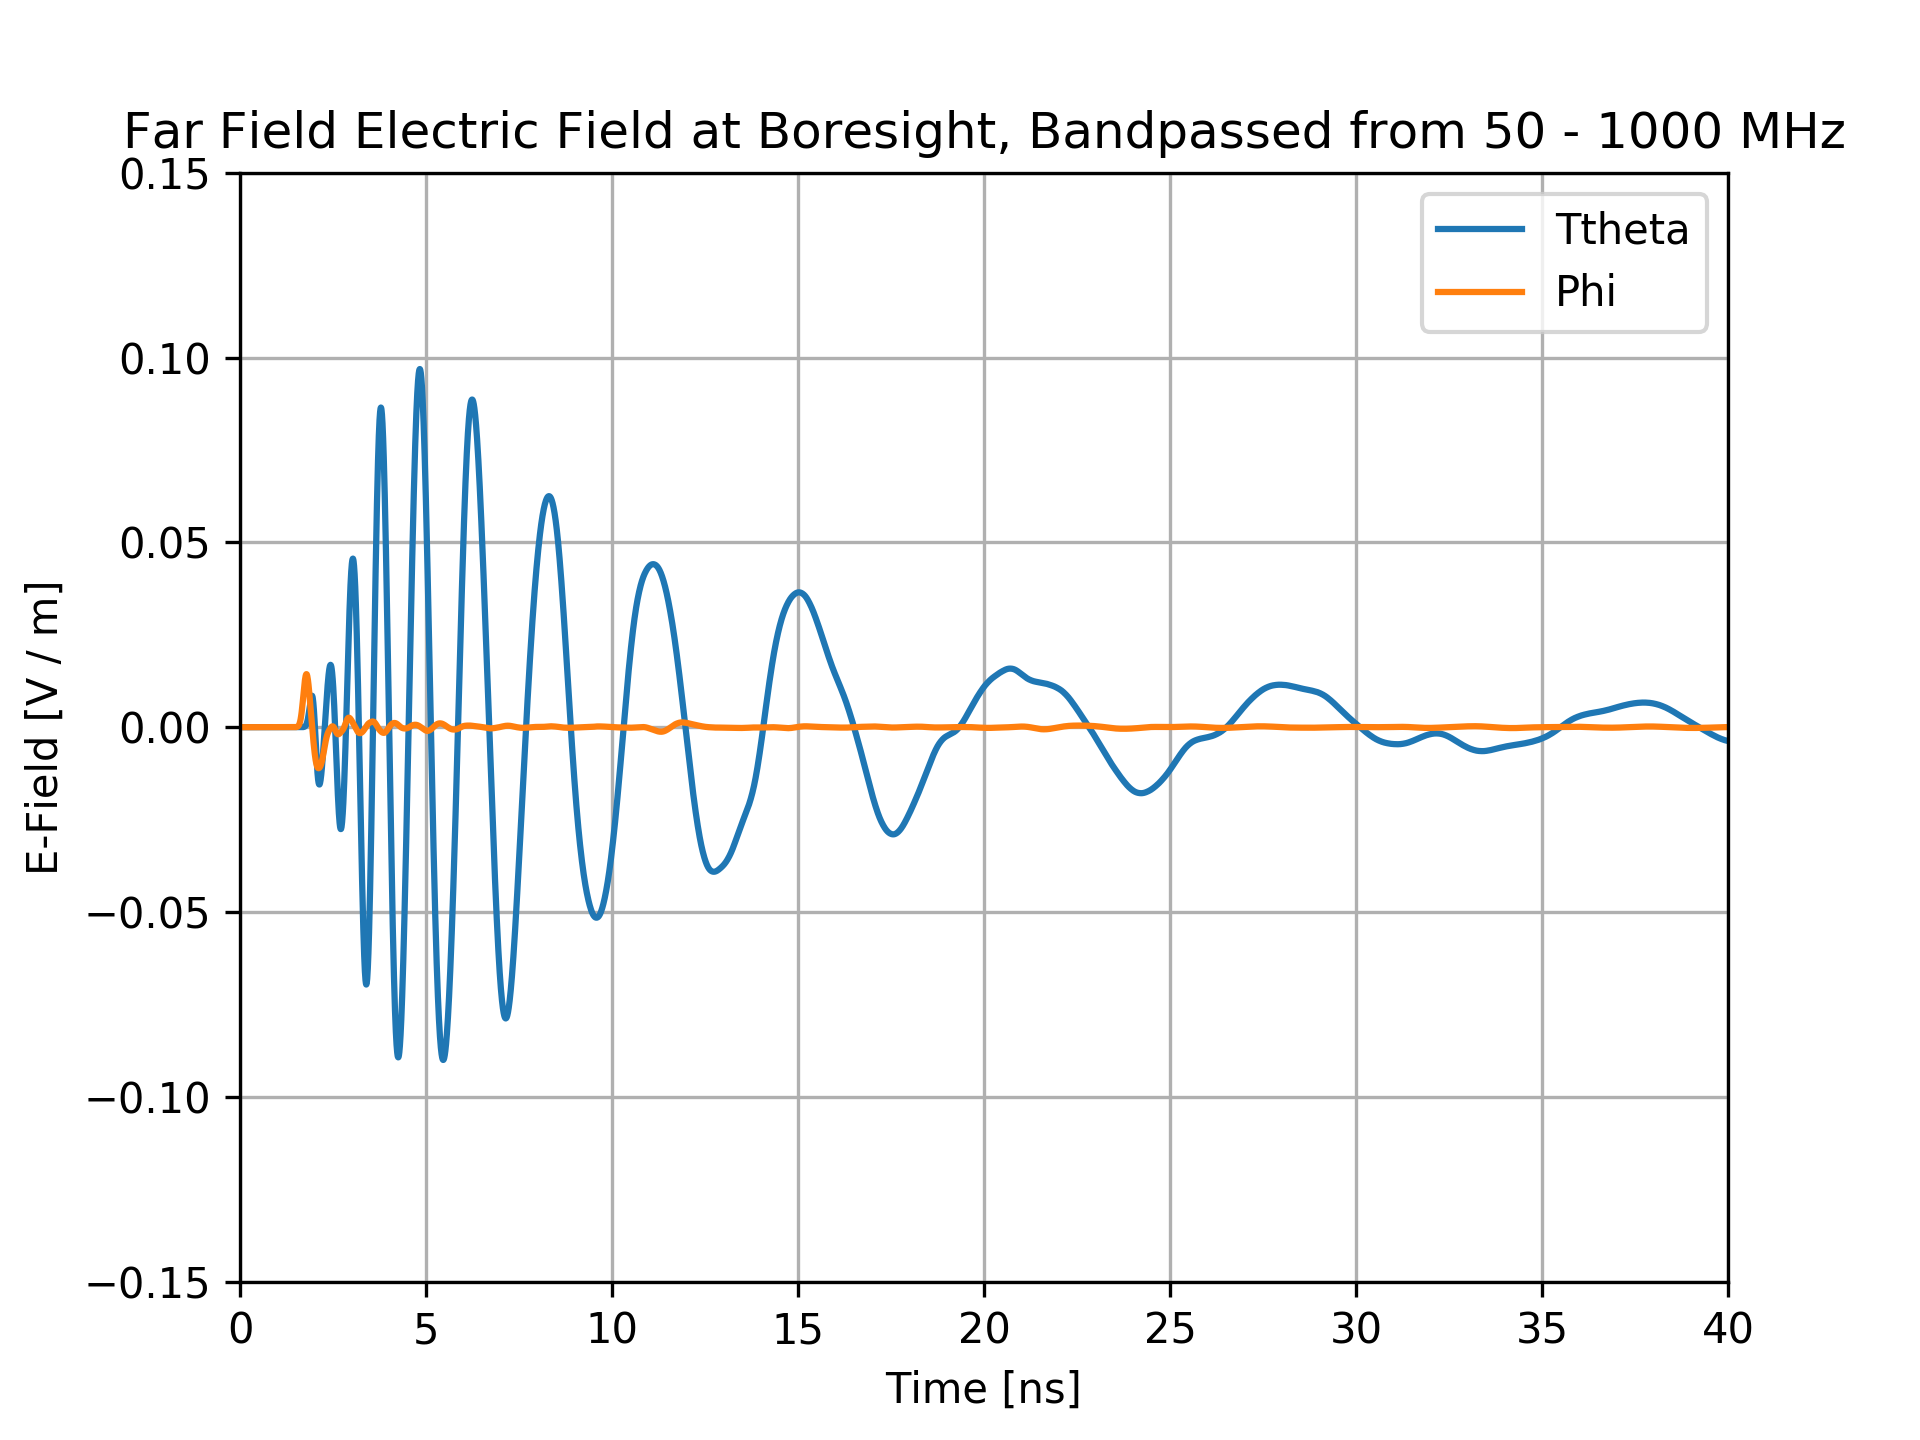
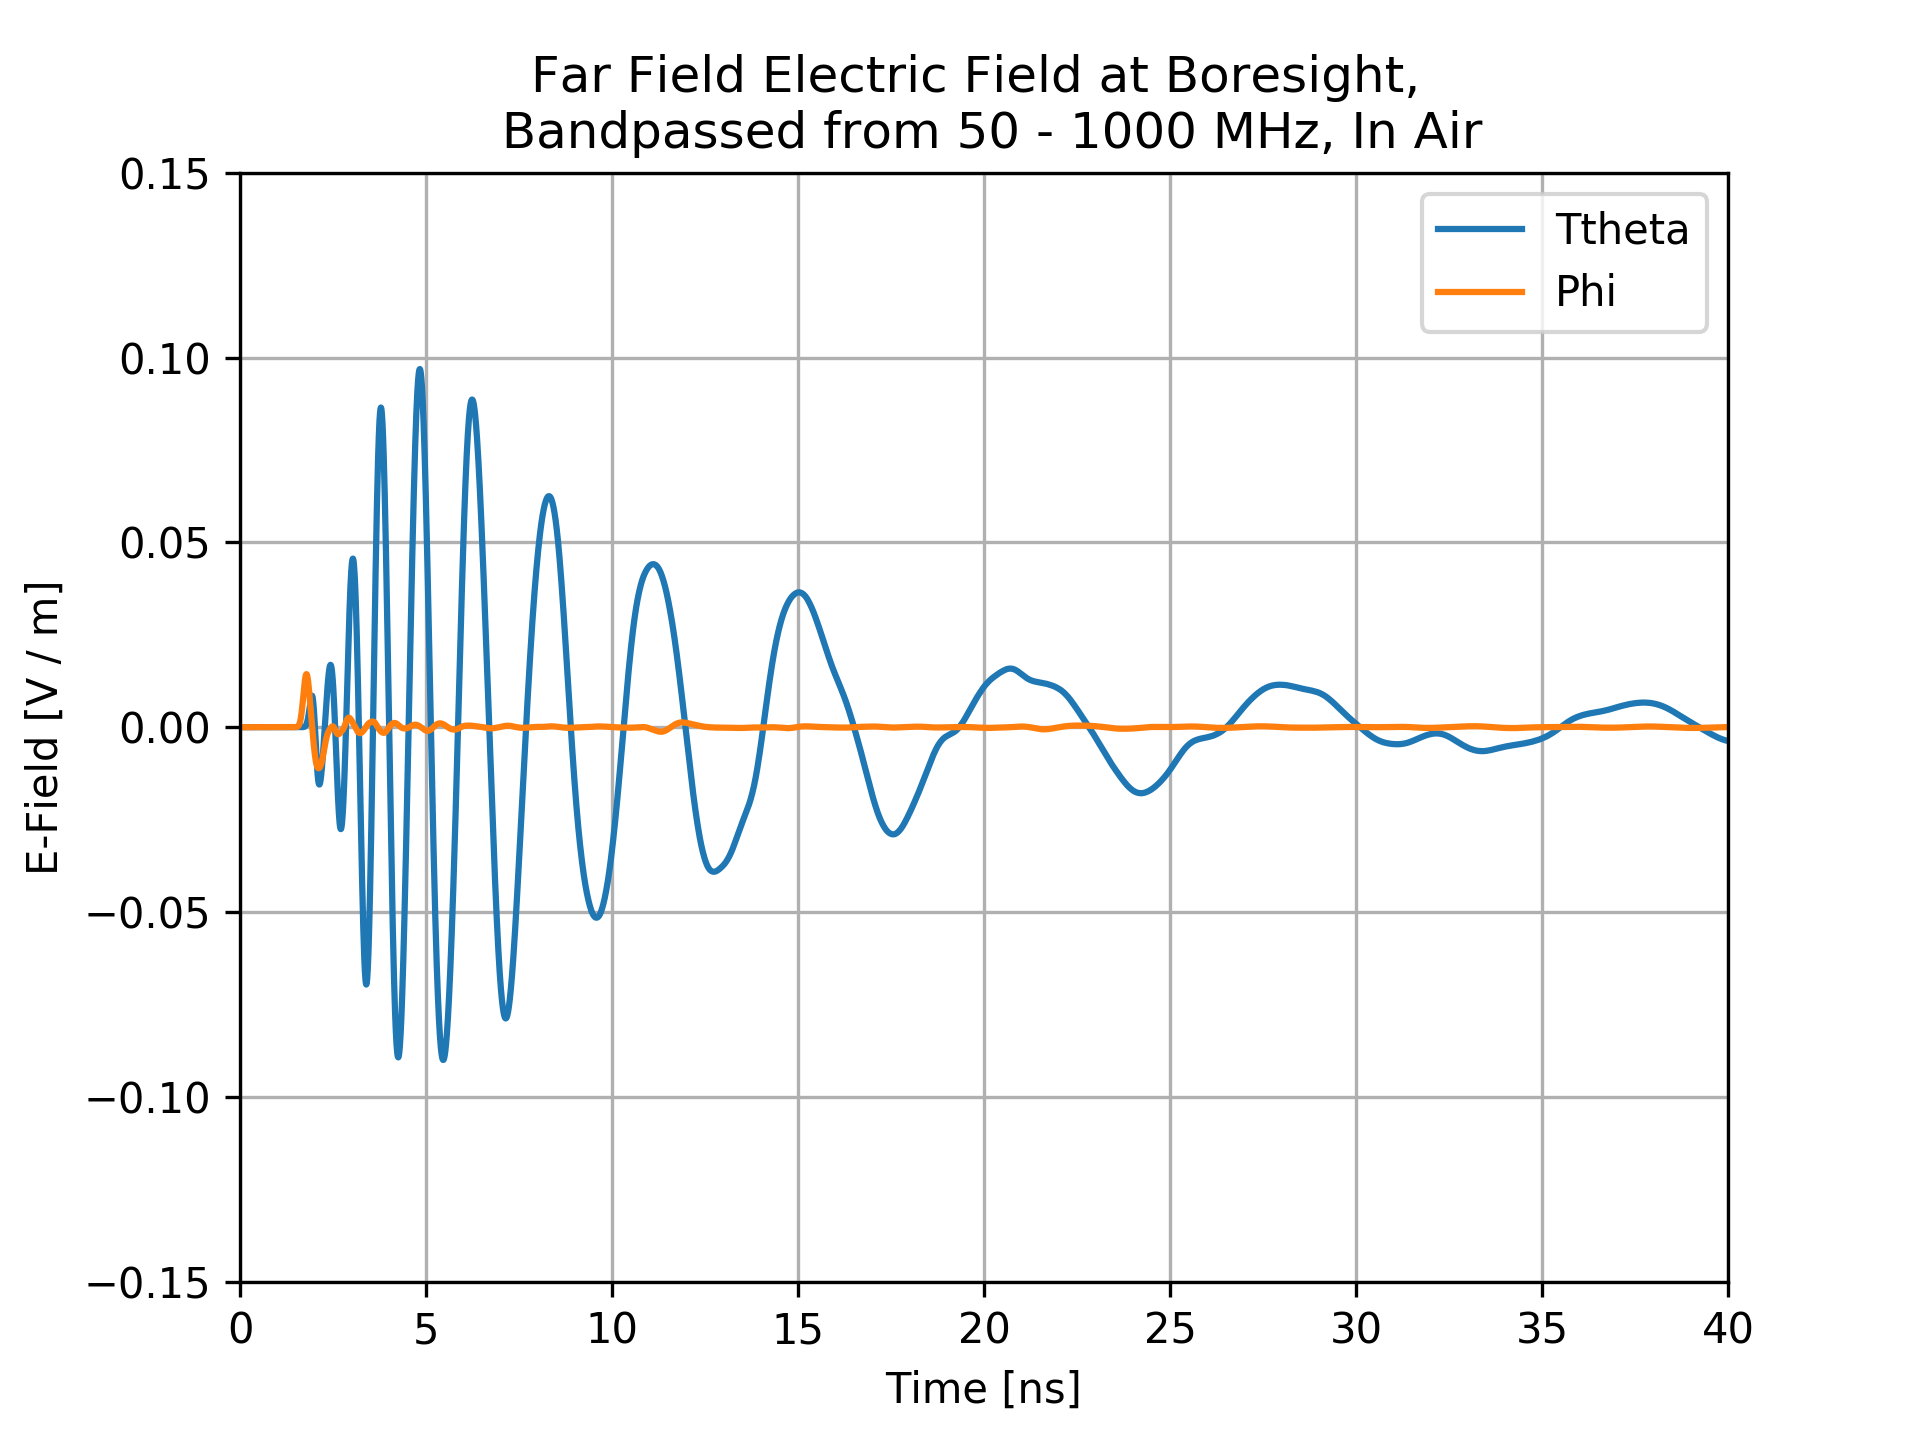
Adding effective height plot, and changed titles

Changed region(s): [[0.0625, 0.0312, 0.8125, 0.125], [0.8438, 0.0625, 0.9688, 0.125]]

diff --git a/plot_simulation_results.py b/plot_simulation_results.py
@@ -16,6 +16,15 @@ gain_theta_realized[np.isinf(gain_theta_realized)] = 1e-10
 gain_phi_realized[np.isnan(gain_phi_realized)] = 1e-10
 gain_phi_realized[np.isinf(gain_phi_realized)] = 1e-10
 
+# convert to effective height
+c0 = 0.3 
+n = 1.0
+ZL = 50.0 
+Z0 = 120.0 * np.pi
+
+abs_H_rl_theta = c0 / (gain_freqs * np.sqrt(4.0 * n * np.pi)) * np.sqrt(ZL / Z0) * np.sqrt(np.abs(gain_theta_realized))
+abs_H_rl_phi = c0 / (gain_freqs * np.sqrt(4.0 * n * np.pi)) * np.sqrt(ZL / Z0) * np.sqrt(np.abs(gain_phi_realized))
+
 def butter_bandpass(lowcut, highcut, fs, order=5):
     nyq = 0.5 * fs
     low = lowcut / nyq
@@ -35,9 +44,8 @@ etheta = butter_bandpass_filter(etheta, 0.05, 1.0, 1.0 / (efield_t[1] - efield_t
 #      Plots     #
 ##################
 
-
 plt.figure()
-plt.title("VSWR of Simulated LPDA")
+plt.title("VSWR of Simulated LPDA, In Air")
 plt.plot(vswr_freqs * 1e3, vswr)
 plt.xlabel("Freqs. [MHz]")
 plt.ylabel("VSWR")
@@ -47,7 +55,7 @@ plt.grid()
 plt.savefig("./plots/results_vswr.png", dpi = 300)
 
 plt.figure()
-plt.title("Realized Forward Gain of Simulated LPDA, Theta Direction")
+plt.title("Realized Forward Gain of Simulated LPDA, Theta Direction, In Air")
 plt.plot(gain_freqs * 1e3, 10.0 * np.log10(gain_theta_realized))
 plt.xlabel("Freqs. [MHz]")
 plt.ylabel("Realized Gain [dBi]")
@@ -57,7 +65,7 @@ plt.grid()
 plt.savefig("./plots/results_realized_gain_theta.png", dpi = 300)
 
 plt.figure()
-plt.title("Realized Forward Gain of Simulated LPDA, Phi Direction")
+plt.title("Realized Forward Gain of Simulated LPDA, Phi Direction, In Air")
 plt.plot(gain_freqs * 1e3, 10.0 * np.log10(gain_phi_realized))
 plt.xlabel("Freqs. [MHz]")
 plt.ylabel("Realized Gain [dBi]")
@@ -66,7 +74,21 @@ plt.ylim(-40.0, -15.0)
 plt.grid()
 plt.savefig("./plots/results_realized_gain_phi.png", dpi = 300)
 
-plt.title("Far Field Electric Field at Boresight, Bandpassed from 50 - 1000 MHz")
+plt.figure()
+plt.title("Effective Height at Boresight, In Air")
+plt.plot(gain_freqs * 1e3, abs_H_rl_theta, label = "Theta")
+plt.plot(gain_freqs * 1e3, abs_H_rl_phi, label = "Phi")
+plt.xlabel("Freqs. [MHz]")
+plt.ylabel("Effective Height [m]")
+plt.xlim(0.0, 1e3)
+plt.ylim(0.0, 0.5)
+plt.minorticks_on()
+plt.grid(which = 'major', alpha = 0.5)
+plt.grid(which = 'minor', alpha = 0.25)
+plt.savefig("./plots/results_effective_height.png", dpi = 300)
+
+plt.figure()
+plt.title("Far Field Electric Field at Boresight, \n Bandpassed from 50 - 1000 MHz, In Air")
 plt.plot(efield_t, etheta, label = "Ttheta")
 plt.plot(efield_t, ephi, label = "Phi")
 plt.xlabel("Time [ns]")
